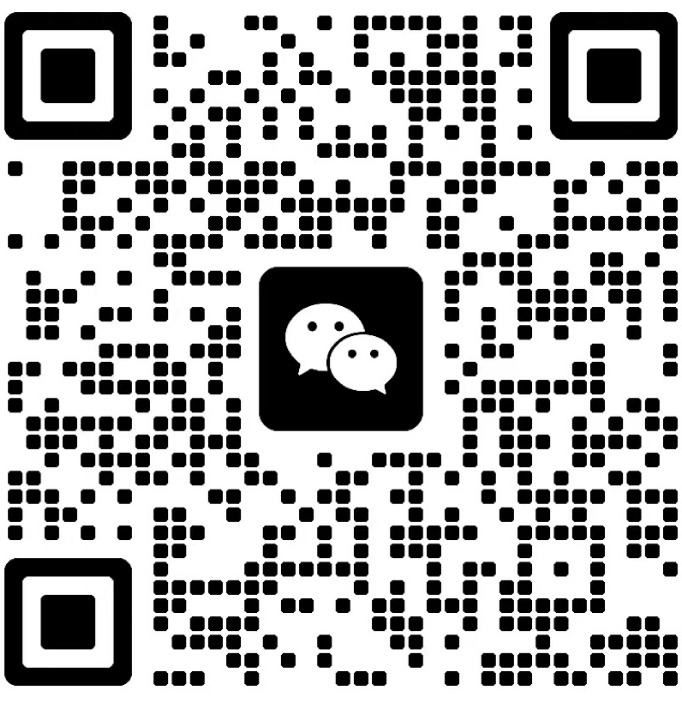
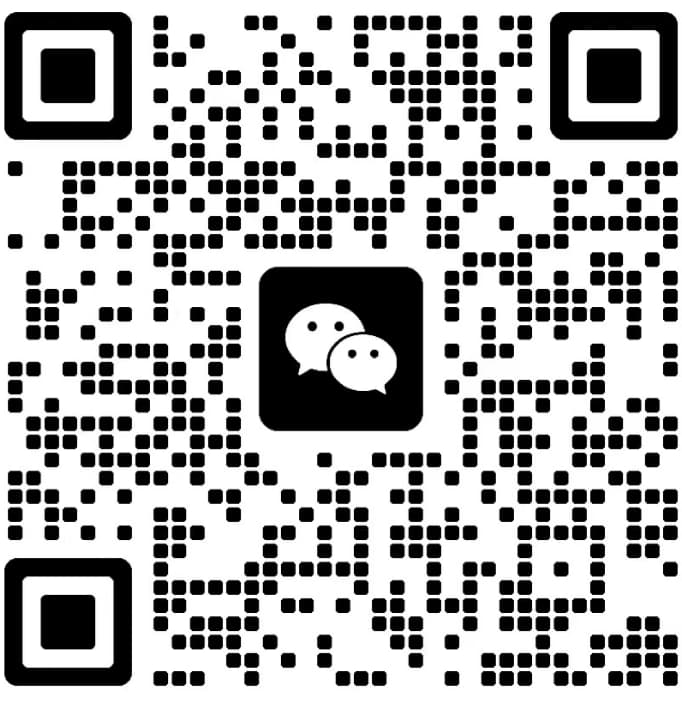
feat: reduce image size

diff --git a/apps/admin/components.d.ts b/apps/admin/components.d.ts
@@ -31,7 +31,7 @@ declare module 'vue' {
     TheLogo: typeof import('./src/components/TheLogo.vue')['default']
     TheModal: typeof import('./src/modules/mobile/components/TheModal.vue')['default']
     TheTheme: typeof import('./src/components/TheTheme.vue')['default']
-    TodoMsg: typeof import('./src/modules/desktop/components/TodoMsg.vue')['default']
+    TodoMsg: typeof import('./src/components/TodoMsg.vue')['default']
     Toolbar: typeof import('./src/modules/mobile/components/Toolbar.vue')['default']
     XBadge: typeof import('@3un/ui')['XBadge']
     XButton: typeof import('@3un/ui')['XButton']
@@ -44,6 +44,7 @@ declare module 'vue' {
     XFormItem: typeof import('@3un/ui')['XFormItem']
     XInput: typeof import('@3un/ui')['XInput']
     XInputNumber: typeof import('@3un/ui')['XInputNumber']
+    XModal: typeof import('@3un/ui')['XModal']
     XNativeDate: typeof import('@3un/ui')['XNativeDate']
     XNativeSelect: typeof import('@3un/ui')['XNativeSelect']
     XPagination: typeof import('@3un/ui')['XPagination']
